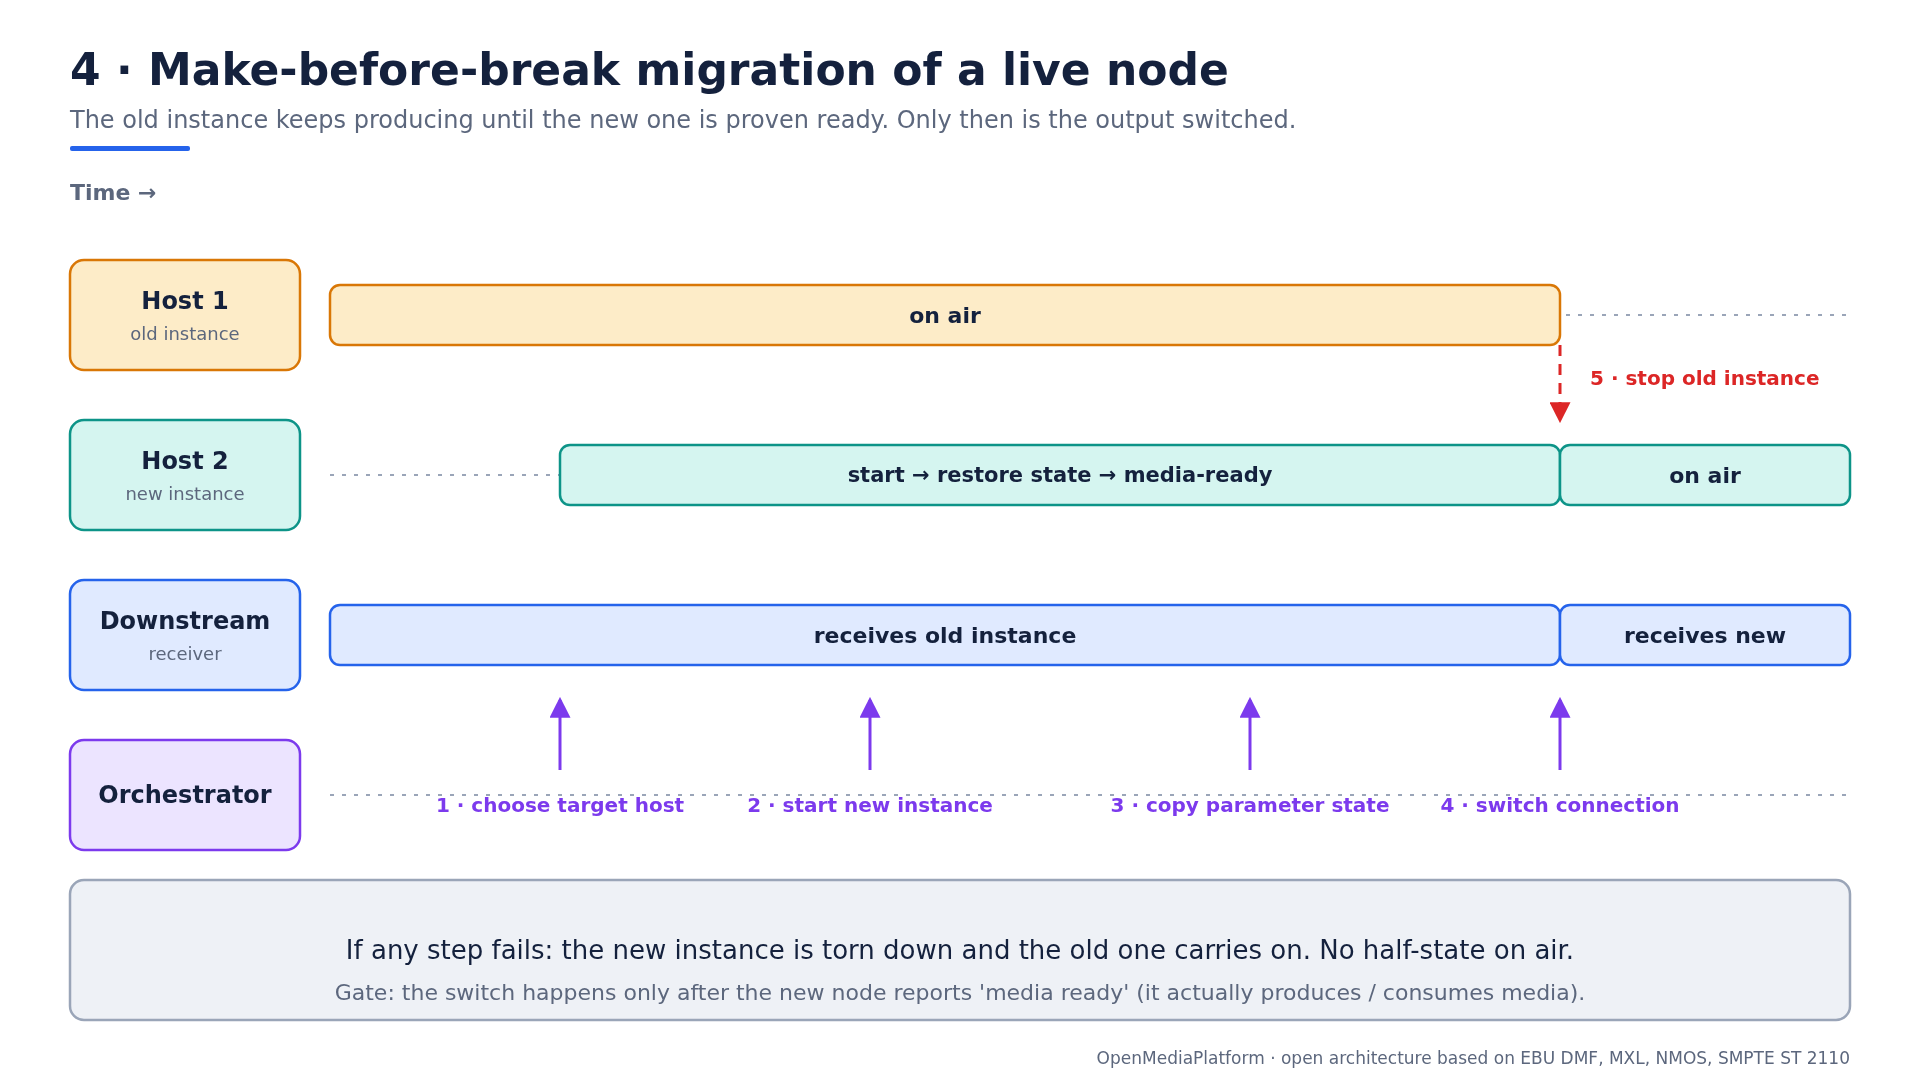
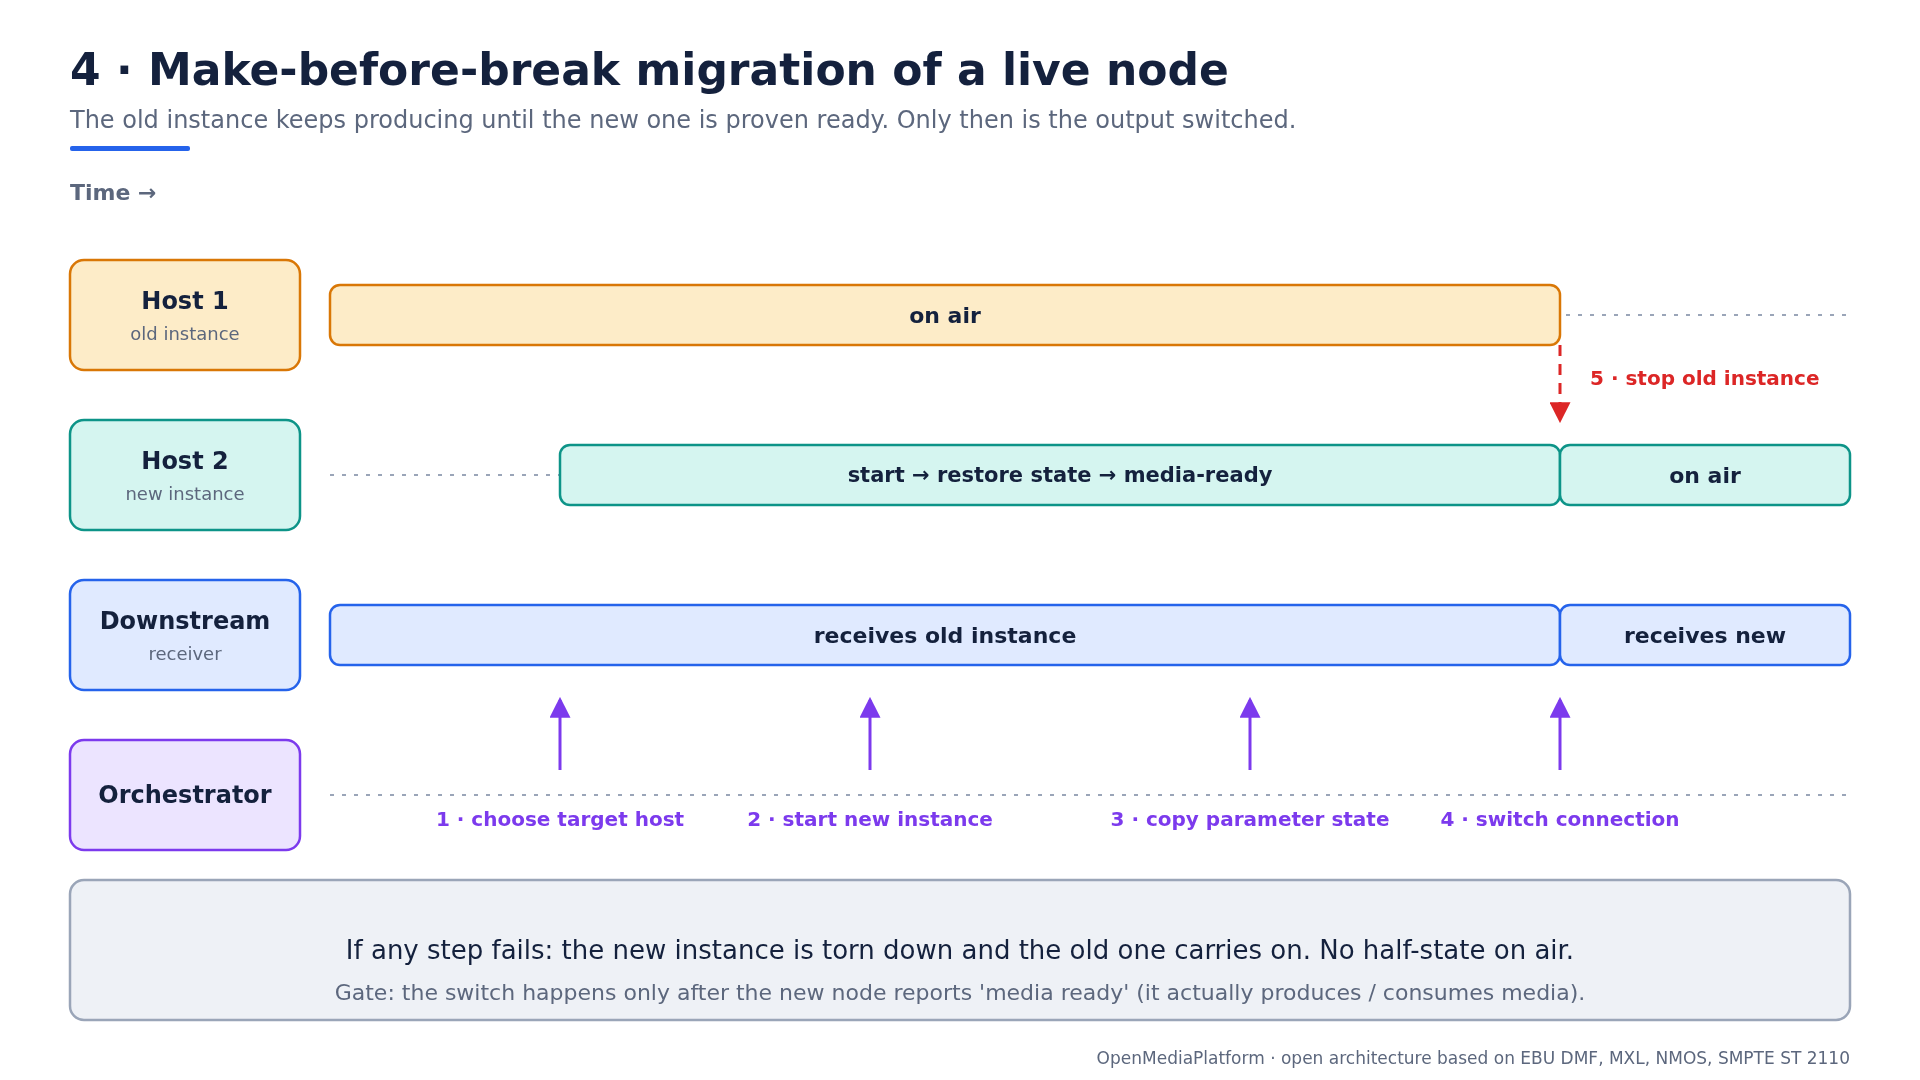
EBU-Diagramm 12: Arbeitsweise (Dokumente, Ein-Schritt-Ablauf, Verifikation, Kennzahlen); Diagramm 4 Beschriftung entzerrt

Changed region(s): [[0.2188, 0.7333, 0.5312, 0.7639], [0.5625, 0.7333, 0.7188, 0.7639], [0.75, 0.7333, 0.875, 0.7639]]

diff --git a/docs/ebu-diagrams/generate.py b/docs/ebu-diagrams/generate.py
@@ -163,7 +163,7 @@ s.box(1560,605,290,60,"receives new","blueL",stroke=C["blue"],fs=22,r=10)
 steps=[(560,"1 · choose target host"),(870,"2 · start new instance"),(1250,"3 · copy parameter state"),(1560,"4 · switch connection")]
 for x,t in steps:
     s.arrow(x,770,x,700,"violet",w=3)
-    s.text(x,812,t,20,"violet",True,"middle")
+    s.text(x,826,t,20,"violet",True,"middle")
 s.arrow(1560,345,1560,420,"red",dash=True,w=3); s.text(1590,385,"5 · stop old instance",20,"red",True)
 s.box(70,880,1780,140,"If any step fails: the new instance is torn down and the old one carries on. No half-state on air.","grey",stroke=C["line"],fs=26,bold=False)
 s.text(960,1000,"Gate: the switch happens only after the new node reports 'media ready' (it actually produces / consumes media).",22,"mute",False,"middle")
@@ -357,3 +357,53 @@ for i,(a,b,c,v,vt) in enumerate(rows):
     s.e.append(f'<rect x="{cx[3]}" y="{y}" width="{cw[3]}" height="62" rx="10" fill="{C[fl]}" stroke="{C[st]}" stroke-width="2.5"/>')
     s.text(cx[3]+cw[3]/2,y+39,vt,21,"ink",True,"middle")
 s.save("11-poc-scope-vs-commercial")
+
+# ---------- 12: how it is built ----------
+s=S("12 · How it is built: instructions, decisions, verification","AI-assisted development under written rules: the owner decides, the assistant implements, every step must be checkable.")
+s.band(70,175,890,525,"Where things are written","blue")
+docs=[("CLAUDE.md","project rules, loaded every session, points to the other documents","blueL","blue"),
+      ("ARCHITECTURE.md","what and why: standards, stack, node contract, phases  ·  4.6k lines","blueL","blue"),
+      ("UMSETZUNG.md","how: steps with their checks, working rules, status checklist  ·  6.6k lines","tealL","teal"),
+      ("docs/decisions.md","append-only log: each decision, options, reasons  ·  30.8k lines","amberL","amber"),
+      ("docs/ (44 files)","feature designs, node contracts, manuals, norm assessments","greyL" if False else "grey","line"),
+      ("Session memory (outside the repo)","pitfalls and the owner's standing rules, carried between sessions","violetL","violet")]
+for i,(a,b,f,st) in enumerate(docs):
+    s.box(95,222+i*79,840,71,a,f,stroke=C[st],sub=b,fs=22)
+s.band(985,175,865,525,"One step per session","teal")
+steps=[("1  Read","rules, the plan section for this step, the status checklist"),
+       ("2  Do exactly one step","sized for one session; no features taken early"),
+       ("3  Build","norm first (read the text, name the version), fewest dependencies"),
+       ("4  Verify","the step's listed checks must pass; if not, fix, do not move on"),
+       ("5  Record","tick the checklist, log decisions, update the manual"),
+       ("6  Commit","message starts with the step ID; push only when the owner asks")]
+for i,(a,b) in enumerate(steps):
+    s.box(1010,222+i*65,815,58,a,"tealL",stroke=C["teal"],sub=b,fs=21)
+s.box(1010,622,815,62,"Blocked or unclear?","amberL",stroke=C["amber"],sub="write 2 to 3 options with a recommendation; the owner decides",fs=21)
+def bullets(x,y,w,items,fs=18):
+    yy=y
+    for t in items:
+        ls=wrap(t,w-30,fs,0.55)
+        for j,l in enumerate(ls):
+            s.text(x,yy,("• " if j==0 else "   ")+l,fs,"ink"); yy+=fs*1.3
+        yy+=6
+for x,w,title,col,items in ((70,580,"Why several documents","blue",
+   ["A model reads a limited window: small fixed rules, then only the section needed",
+    "What/why, status and history change at different speeds",
+    "The plan defines 'done' before work starts",
+    "Append-only decisions keep provenance",
+    "Cost: the documents grow large and need discipline"]),
+  (670,580,"Every step must be verifiable","teal",
+   ["Each step lists its checks before it starts",
+    "About 3.9k automated tests (Go, Rust, Deno)",
+    "Official AMWA NMOS test tool in CI",
+    "Live run in the real stack; browser click-through for UI",
+    "Untested paths are labelled 'not verified on hardware'"]),
+  (1270,580,"Scale (measured 16 Nov 2026)","amber",
+   ["About 430k lines incl. tests: Go 171k, Rust 138k, TypeScript/JS 113k",
+    "1,385 commits since 3 July 2026",
+    "Core documents: about 47k lines",
+    "AI usage in the retained logs, 19 Oct to 16 Nov: 13.7k requests, 13.3M output tokens (earlier sessions not kept)"])):
+    s.e.append(f'<rect x="{x}" y="725" width="{w}" height="295" rx="14" fill="{C[col+"L"]}" fill-opacity="0.5" stroke="{C[col]}" stroke-width="2"/>')
+    s.text(x+20,762,title,24,"ink",True)
+    bullets(x+20,800,w-20,items)
+s.save("12-how-it-is-built")
